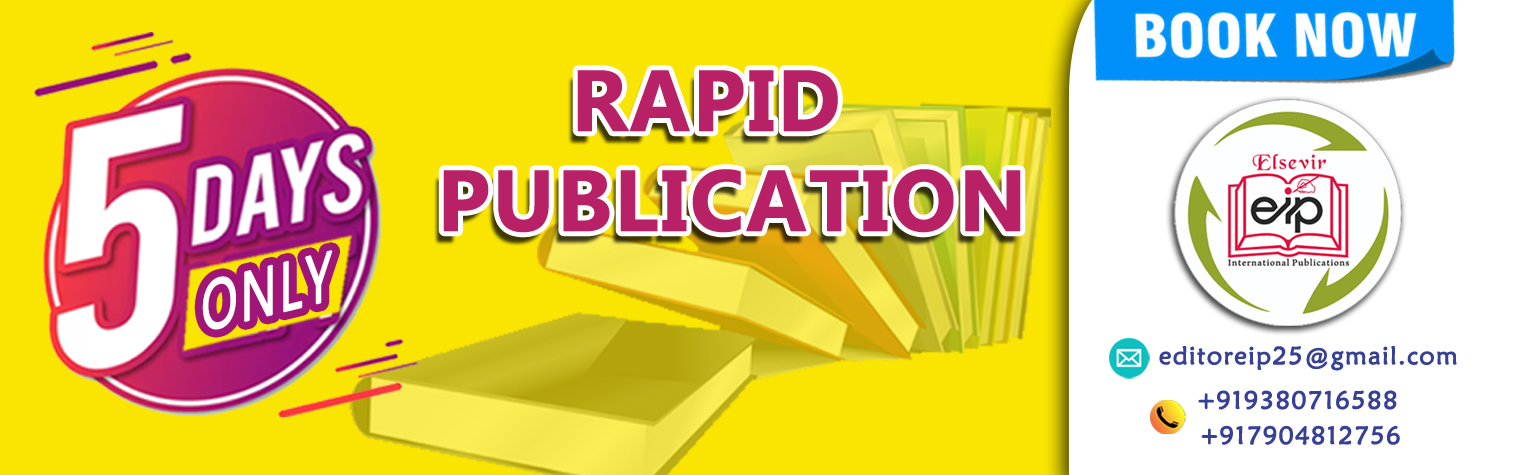
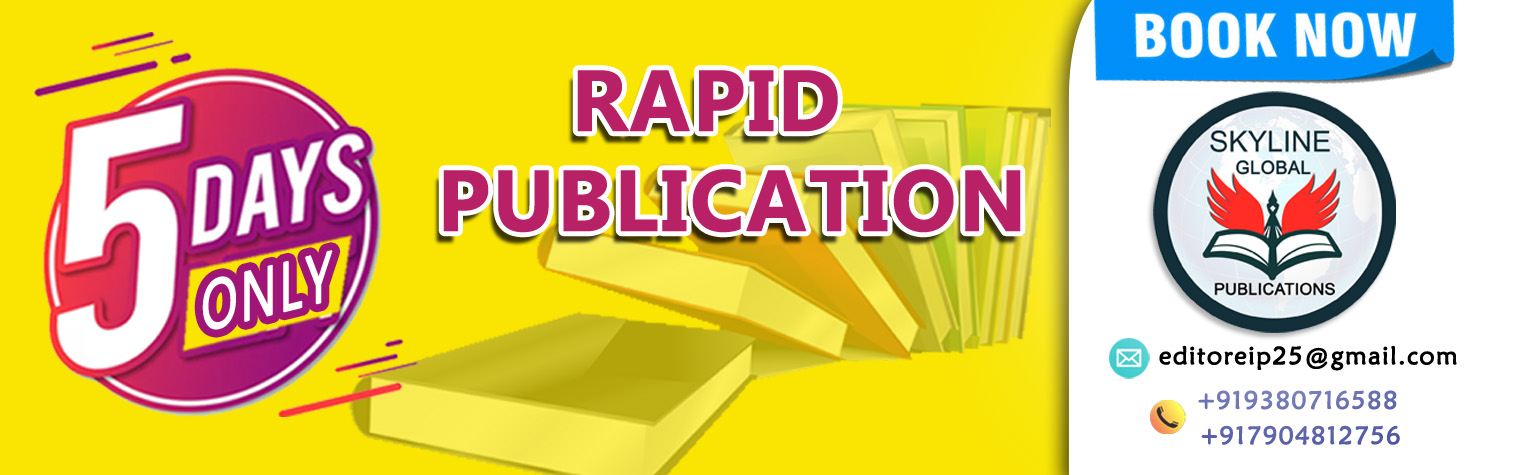
#1

Changed region(s): [[0.6519, 0.0589, 0.9624, 0.7958], [0.745, 0.8253, 0.9313, 0.9432]]

diff --git a/awards.php b/awards.php
@@ -18,7 +18,7 @@
     <div class="container" style='font-family: math;'>
         <div class="row">
             <div class="col-12">
-                <p>Every Year Elsevir International Publications (EIP) plan to felicitate the Higher Educational Institutions, Academicians, Research Scholars, and Young Engineers through the precious SIPH Award. You are warmly encouraged to join and build your profile. </p>
+                <p>Every Year Skyline Global Publications plan to felicitate the Higher Educational Institutions, Academicians, Research Scholars, and Young Engineers through the precious SIPH Award. You are warmly encouraged to join and build your profile. </p>
                 
                 <h4>Benefits of the Awards:</h4>
                 <ul>
@@ -96,22 +96,22 @@
                 <div class="row">
                     <div class="col-md-3 col-sm-4 col-6">
                         <div class="award-img">
-                            <img src="images/awards-img-1.jpg">
+                            <img src="images/award.jpg">
                         </div>
                     </div>
                     <div class="col-md-3 col-sm-4 col-6">
                         <div class="award-img">
-                            <img src="images/awards-img-1.jpg">
+                            <img src="images/award.jpg">
                         </div>
                     </div>
                     <div class="col-md-3 col-sm-4 col-6">
                         <div class="award-img">
-                            <img src="images/awards-img-1.jpg">
+                            <img src="images/award.jpg">
                         </div>
                     </div>
                     <div class="col-md-3 col-sm-4 col-6">
                         <div class="award-img">
-                            <img src="images/awards-img-1.jpg">
+                            <img src="images/award.jpg">
                         </div>
                     </div>
                 </div>
@@ -121,22 +121,22 @@
                 <div class="row">
                     <div class="col-md-3 col-sm-4 col-6">
                         <div class="award-img">
-                            <img src="images/awards-img-2.jpg">
+                            <img src="images/awards.jpg">
                         </div>
                     </div>
                     <div class="col-md-3 col-sm-4 col-6">
                         <div class="award-img">
-                            <img src="images/awards-img-2.jpg">
+                            <img src="images/awards.jpg">
                         </div>
                     </div>
                     <div class="col-md-3 col-sm-4 col-6">
                         <div class="award-img">
-                            <img src="images/awards-img-2.jpg">
+                            <img src="images/awards.jpg">
                         </div>
                     </div>
                     <div class="col-md-3 col-sm-4 col-6">
                         <div class="award-img">
-                            <img src="images/awards-img-2.jpg">
+                            <img src="images/awards.jpg">
                         </div>
                     </div>
                 </div>
@@ -146,22 +146,22 @@
                 <div class="row">
                     <div class="col-md-3 col-sm-4 col-6">
                         <div class="award-img">
-                            <img src="images/awards-img-3.jpg">
+                            <img src="images/id_card.jpg">
                         </div>
                     </div>
                     <div class="col-md-3 col-sm-4 col-6">
                         <div class="award-img">
-                            <img src="images/awards-img-4.jpg">
+                            <img src="images/id_card.jpg">
                         </div>
                     </div>
                     <div class="col-md-3 col-sm-4 col-6">
                         <div class="award-img">
-                            <img src="images/awards-img-3.jpg">
+                            <img src="images/id_card.jpg">
                         </div>
                     </div>
                     <div class="col-md-3 col-sm-4 col-6">
                         <div class="award-img">
-                            <img src="images/awards-img-4.jpg">
+                            <img src="images/id_card.jpg">
                         </div>
                     </div>
                 </div>

diff --git a/submit_manuscript.php b/submit_manuscript.php
@@ -136,13 +136,13 @@ function imageupload($filename,$foldername,$full_file){
             <div class="col-md-4">
                 <div class="addressWidget">
                     <p style="text-align: justify;">
-                        Elsevir International Publications is a popular innovative book publisher of educational, fiction, non-fiction, children’s literature, scholarly materials including Medicine, Engineering, Science and Technology. We Publish book in almost all regional languages with global distribution and social media promotion.
+                        Skyline Global Publications is a popular innovative book publisher of educational, fiction, non-fiction, children’s literature, scholarly materials including Medicine, Engineering, Science and Technology. We Publish book in almost all regional languages with global distribution and social media promotion.
                     </p>
                     
                     <div class="addBox">
                         <h5>Address</h5>
                         <p>
-                             Elsevir International Publications,<br>
+                             Skyline Global Publications,<br>
                             No. 78/2 Thiruvarur road<br>
 							Mayiladuthurai, 609001,<br>
 							Tamilnadu, India
@@ -172,54 +172,54 @@ function imageupload($filename,$foldername,$full_file){
 </section>
 
 
-<section class="products" style="background-image: none; padding-bottom: 0px;">
-	<div class="container">
-		<div class="row">
-			<div class="col-12 mb-md-4">
-				<div class="mainTitle">
-					<h2>Trending <span>Products</span></h2>
-				</div>
-			</div>
-		</div>
-		<div class="row">
-			<div class="col-12">
-				<div class="productSlider owl-carousel owl-theme">
-
-					<?php 
-
-						error_reporting(E_ALL);
-  					ini_set('display_errors', 1);
-
-						include_once 'eip-admin/class/product_class.php';
-
-              $result = new Product();
-              $datas = $result->fetch_product_home();
-              $i = 1;
-              foreach ($datas as $data) { 
-              	
-             ?>
-
-			    <div class="card product-card">
-			    	<div class="productImg">
-		        	<img class="card-img-top card-img-back" src="/eip-admin/uploads/product_images/<?php echo $data['imagelist']; ?>">
-		        </div>
-		        <div class="card-info">
-	            <div class="card-footer bg-transparent border-0">
-                <div class="product-link d-flex align-items-center justify-content-center">
-                	<a class="customBtn" href="products.php">Buy Now</a>
-                </div>
-	            </div>
-		        </div>
-			    </div>
-			    <?php
-			     } 
-                 
-          ?>
-                    
-				</div>
-			</div>
-		</div>
-	</div>
-</section>
+<!--<section class="products" style="background-image: none; padding-bottom: 0px;">-->
+<!--	<div class="container">-->
+<!--		<div class="row">-->
+<!--			<div class="col-12 mb-md-4">-->
+<!--				<div class="mainTitle">-->
+<!--					<h2>Trending <span>Products</span></h2>-->
+<!--				</div>-->
+<!--			</div>-->
+<!--		</div>-->
+<!--		<div class="row">-->
+<!--			<div class="col-12">-->
+<!--				<div class="productSlider owl-carousel owl-theme">-->
+<!---->
+<!--					--><?php //
+//
+//						error_reporting(E_ALL);
+//  					ini_set('display_errors', 1);
+//
+//						include_once 'eip-admin/class/product_class.php';
+//
+//              $result = new Product();
+//              $datas = $result->fetch_product_home();
+//              $i = 1;
+//              foreach ($datas as $data) {
+//
+//             ?>
+<!---->
+<!--			    <div class="card product-card">-->
+<!--			    	<div class="productImg">-->
+<!--		        	<img class="card-img-top card-img-back" src="/eip-admin/uploads/product_images/--><?php //echo $data['imagelist']; ?><!--">-->
+<!--		        </div>-->
+<!--		        <div class="card-info">-->
+<!--	            <div class="card-footer bg-transparent border-0">-->
+<!--                <div class="product-link d-flex align-items-center justify-content-center">-->
+<!--                	<a class="customBtn" href="products.php">Buy Now</a>-->
+<!--                </div>-->
+<!--	            </div>-->
+<!--		        </div>-->
+<!--			    </div>-->
+<!--			    --><?php
+//			     }
+//
+//          ?>
+<!--                    -->
+<!--				</div>-->
+<!--			</div>-->
+<!--		</div>-->
+<!--	</div>-->
+<!--</section>-->
 
 <?php include 'footer.php'; ?>

diff --git a/index.php b/index.php
@@ -24,9 +24,9 @@
 			<div class="col-12 mb-md-4">
 				<div class="mainTitle">
 					<h5>Greetings & Welcome</h5>
-					<h2> International Publications (EIP)</span></h2>
+					<h2> Skyline Global Publications</span></h2>
 					<p style="line-height: 28px;font-size: 14px; text-align: justify; color: #000000;">
-						Elsevier is a globally recognized publishing company specializing in academic and professional content. Elsevier's textbook promotion strategy centers on showcasing its commitment to authoritative, globally relevant educational resources. They emphasize the expertise of their authors, highlighting rigorous scholarship and cutting-edge content across diverse disciplines like Medicine, Engineering, Scientific, Technical, Management, Agriculture, Arts and Science, Biotechnology, Photography, Religion, Reference Encyclopedias, and Law Books. Partnerships with educational institutions and targeted online marketing campaigns reach students and educators worldwide. Online catalogs provide detailed information, while review copies and sales representatives facilitate adoption. International editions cater to diverse regional needs, and participation in academic conferences ensures visibility. Supplemental learning materials and integration with online platforms further enhance the learning experience, while bestseller status within subject areas bolsters credibility. Ultimately, Elsevier aims to empower students and educators with high-quality, accessible textbooks that drive academic success.
+						Skyline is a globally recognized publishing company specializing in academic and professional content. Skyline's textbook promotion strategy centers on showcasing its commitment to authoritative, globally relevant educational resources. They emphasize the expertise of their authors, highlighting rigorous scholarship and cutting-edge content across diverse disciplines like Medicine, Engineering, Scientific, Technical, Management, Agriculture, Arts and Science, Biotechnology, Photography, Religion, Reference Encyclopedias, and Law Books. Partnerships with educational institutions and targeted online marketing campaigns reach students and educators worldwide. Online catalogs provide detailed information, while review copies and sales representatives facilitate adoption. International editions cater to diverse regional needs, and participation in academic conferences ensures visibility. Supplemental learning materials and integration with online platforms further enhance the learning experience, while bestseller status within subject areas bolsters credibility. Ultimately, Skyline aims to empower students and educators with high-quality, accessible textbooks that drive academic success.
           </p>
 				</div>
 			</div>
@@ -45,7 +45,7 @@
 					<li><i class="fa fa-check"></i>  &nbsp;&nbsp;Lowest Publication Fee</li>
 					<li><i class="fa fa-check"></i>  &nbsp;&nbsp;A Govt registered Company and Registered under MSME.</li>
 					<li><i class="fa fa-check"></i>  &nbsp;&nbsp;Complementary Books to each Authors.</li>
-					<li><i class="fa fa-check"></i>  &nbsp;&nbsp;100% royalty is paid on each book sold.</li>
+					<li><i class="fa fa-check"></i>  &nbsp;&nbsp;10% royalty is paid on each book sold.</li>
 					<li><i class="fa fa-check"></i>  &nbsp;&nbsp;Publishing book with DoI Number. </li>
 					<li><i class="fa fa-check"></i>	 &nbsp;&nbsp;Partnership with global distributors like Amazon, Flipkart etc.,</li>
 					<li><i class="fa fa-check"></i>	 &nbsp;&nbsp;Bestselling titles in Research and Engineering in Colleges.</li>

diff --git a/packages.php b/packages.php
@@ -79,8 +79,8 @@ function imageupload($filename,$foldername,$full_file){
     </h3>
     <ul class="plan-features">
       <li><span class="plan-ld">No of copies</span> <span  class="plan-rd">5</span></li>
-      <li><span class="plan-ld">Royalty </span> <span  class="plan-rd">100%</span></li>
-      <li><span class="plan-ld">Promotions </span> <span  class="plan-rd">AIP, Flipkart, Amazon </span></li>
+      <li><span class="plan-ld">Royalty </span> <span  class="plan-rd">0%</span></li>
+      <li><span class="plan-ld">Promotions </span> <span  class="plan-rd">Flipkart, Amazon </span></li>
       <li><span class="plan-ld">Shipping fee </span> <span  class="plan-rd">Free</span></li>
       <li><span class="plan-ld">Publication certificate</span> <span  class="plan-rd"> 	Yes</span></li>
       <li><span class="plan-ld">Cover page	</span> <span  class="plan-rd">Color</span></li>
@@ -98,8 +98,8 @@ function imageupload($filename,$foldername,$full_file){
     </h3>
     <ul class="plan-features">
       <li><span class="plan-ld">No of copies</span> <span  class="plan-rd">8</span></li>
-      <li><span class="plan-ld">Royalty </span> <span  class="plan-rd">100%</span></li>
-      <li><span class="plan-ld">Promotions </span> <span  class="plan-rd">AIP, Flipkart, Amazon </span></li>
+      <li><span class="plan-ld">Royalty </span> <span  class="plan-rd">0%</span></li>
+      <li><span class="plan-ld">Promotions </span> <span  class="plan-rd">Flipkart, Amazon </span></li>
       <li><span class="plan-ld">Shipping fee </span> <span  class="plan-rd">Free</span></li>
       <li><span class="plan-ld">Publication certificate</span> <span  class="plan-rd"> 	Yes</span></li>
       <li><span class="plan-ld">Cover page	</span> <span  class="plan-rd">Color</span></li>
@@ -118,8 +118,8 @@ function imageupload($filename,$foldername,$full_file){
     </h3>
     <ul class="plan-features">
       <li><span class="plan-ld">No of copies</span> <span  class="plan-rd">10</span></li>
-      <li><span class="plan-ld">Royalty </span> <span  class="plan-rd">100%</span></li>
-      <li><span class="plan-ld">Promotions </span> <span  class="plan-rd">AIP, Flipkart, Amazon </span></li>
+      <li><span class="plan-ld">Royalty </span> <span  class="plan-rd">10%</span></li>
+      <li><span class="plan-ld">Promotions </span> <span  class="plan-rd">Flipkart, Amazon </span></li>
       <li><span class="plan-ld">Shipping fee </span> <span  class="plan-rd">Free</span></li>
       <li><span class="plan-ld">Publication certificate</span> <span  class="plan-rd"> 	Yes</span></li>
       <li><span class="plan-ld">Cover page	</span> <span  class="plan-rd">Color</span></li>
@@ -137,8 +137,8 @@ function imageupload($filename,$foldername,$full_file){
     </h3>
     <ul class="plan-features">
       <li><span class="plan-ld">No of copies</span> <span  class="plan-rd">15</span></li>
-      <li><span class="plan-ld">Royalty </span> <span  class="plan-rd">100%</span></li>
-      <li><span class="plan-ld">Promotions </span> <span  class="plan-rd">AIP, Flipkart, Amazon </span></li>
+      <li><span class="plan-ld">Royalty </span> <span  class="plan-rd">10%</span></li>
+      <li><span class="plan-ld">Promotions </span> <span  class="plan-rd">Flipkart, Amazon </span></li>
       <li><span class="plan-ld">Shipping fee </span> <span  class="plan-rd">Free</span></li>
       <li><span class="plan-ld">Publication certificate</span> <span  class="plan-rd"> 	Yes</span></li>
       <li><span class="plan-ld">Cover page	</span> <span  class="plan-rd">Color</span></li>

diff --git a/footer.php b/footer.php
@@ -4,7 +4,7 @@
                 
                 <div class="row">
 					<div class="col-md-12 col-sm-12" style="text-align: center; padding-bottom:45px; ">
-                        <img src="images/logo.png" style="background: #FFFFFF; max-width:300px;  padding:10px 15px;border-radius: 10px; ">
+                        <img src="images/logo.png" style="background: #FFFFFF; max-width:200px;  padding:10px 15px;border-radius: 10px; ">
                     </div>
                 </div>
                 
@@ -12,7 +12,7 @@
 					<div class="col-md-3 col-sm-6">
 						<div class="footerWidget">
 							<h3>About Us</h3>
-							<p>Elsevir International Publications is a popular innovative book publisher of educational, fiction, non-fiction, children’s literature, scholarly materials including Medicine, Engineering, Science and Technology. We Publish book in almost all regional languages with global distribution and social media promotion.</p>
+							<p>Skyline Global Publications is a popular innovative book publisher of educational, fiction, non-fiction, children’s literature, scholarly materials including Medicine, Engineering, Science and Technology. We Publish book in almost all regional languages with global distribution and social media promotion.</p>
                             <ul class="socialLinks">
 								<li><a href="#"><i class="fa fa-facebook"></i></a></li>
 								<li><a href="#"><i class="fa fa-twitter"></i></a></li>
@@ -39,7 +39,7 @@
                             
                             <div class="footerItem">
 								<span class="infoTitle"><i class="fa fa-map-marker"></i></span>
-								<span>Elsevir International Publications,<br>
+								<span>Skyline Global Publications,<br>
                                     No. 78/2 Thiruvarur road<br>
 									Mayiladuthurai, 609001,<br>
 									Tamilnadu, India
@@ -75,7 +75,7 @@
 			<div class="container">
                 <div class="row">
 					<div class="col-md-12 col-sm-12">
-                        <p style="text-align: center;">Copy right us <?php echo date('Y'); ?>  &copy; Elsevir International Publications. Website designed by <a href="https://do365tech.com/" target="_blank" style="color:#fff;">DO365 Technologies Pvt Ltd.</a></p>
+                        <p style="text-align: center;">Copyright us <?php echo date('Y'); ?>  &copy; Skyline Global Publications. Website designed by <a href="https://do365tech.com/" target="_blank" style="color:#fff;">DO365 Technologies Pvt Ltd.</a></p>
                     </div>
                     
                 </div>  

diff --git a/header.php b/header.php
@@ -4,7 +4,7 @@ include 'dbconfig.php';
 <!DOCTYPE html>
 <html>
 	<head>
-		<title>Elsevir International Publications</title>
+		<title>Skyline Global Publications</title>
 	    <meta http-equiv="Content-Type" content="text/html; charset=UTF-8"/>
 	    <meta name="viewport" content="width=device-width, initial-scale=1, maximum-scale=1, user-scalable=no"/>
 	    <meta name="author" content="" />
@@ -37,7 +37,7 @@ include 'dbconfig.php';
 		    <nav class="navSection navbar navbar-expand-md w-100">
 		        <div class="container">
 		        	 <a class="navbar-brand" href="index.php">
-		                <img src="images/logo.png">
+		                <img src="images/logonew.png" style="width: 80px; height: 80px; background-color: transparent; margin-top: -8px; ">
 		            </a>
 		           
 		            <button class="navbar-toggler customToggler" type="button" data-toggle="collapse" data-target="#collapsibleNavbar">

diff --git a/contactus.php b/contactus.php
@@ -122,7 +122,7 @@ if(isset($_POST['submit'])){
                     <div class="addBox">
                         <h5>Address</h5>
                         <p>
-                            Elsevir International Publications,<br>
+                            Skyline Global Publications,<br>
                             No. 78/2 Thiruvarur road<br>
 							Mayiladuthurai, 609001,<br>
 							Tamilnadu, India
